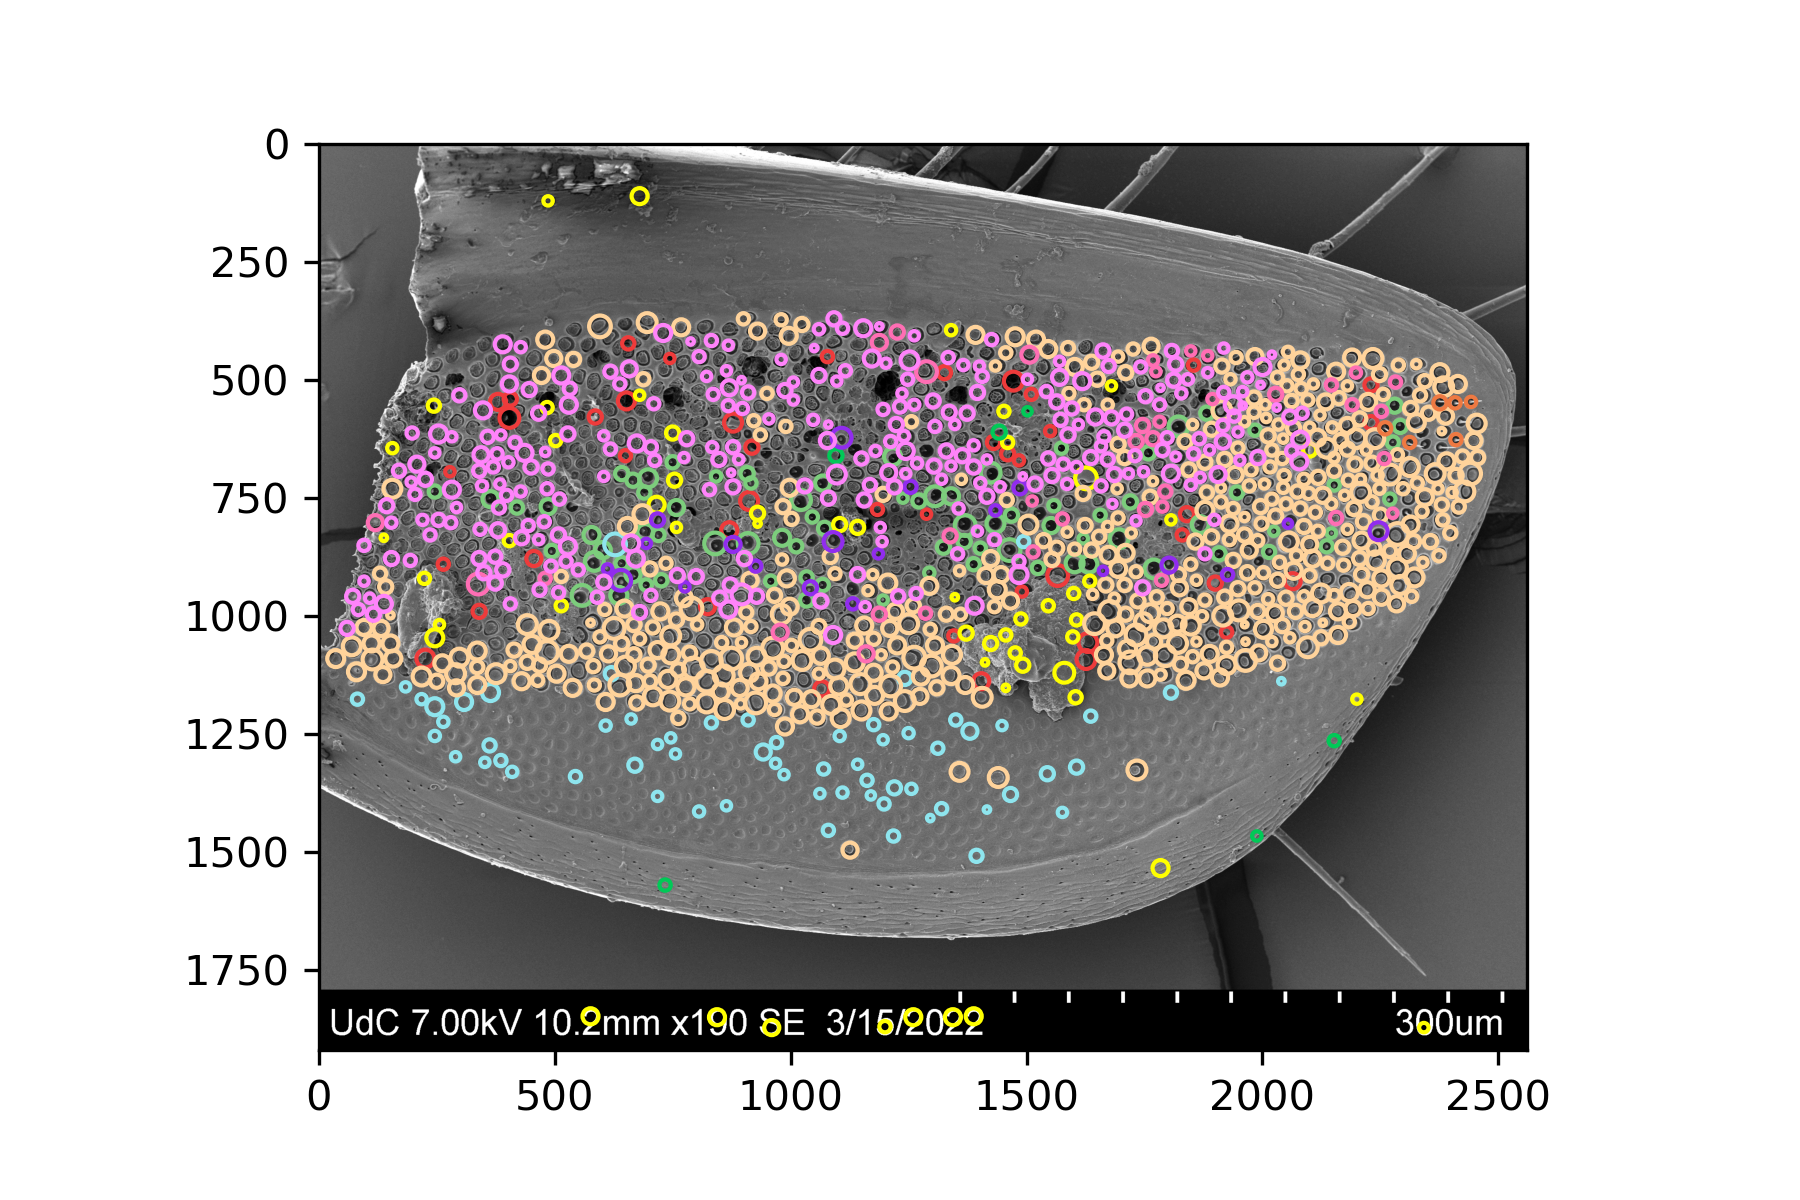
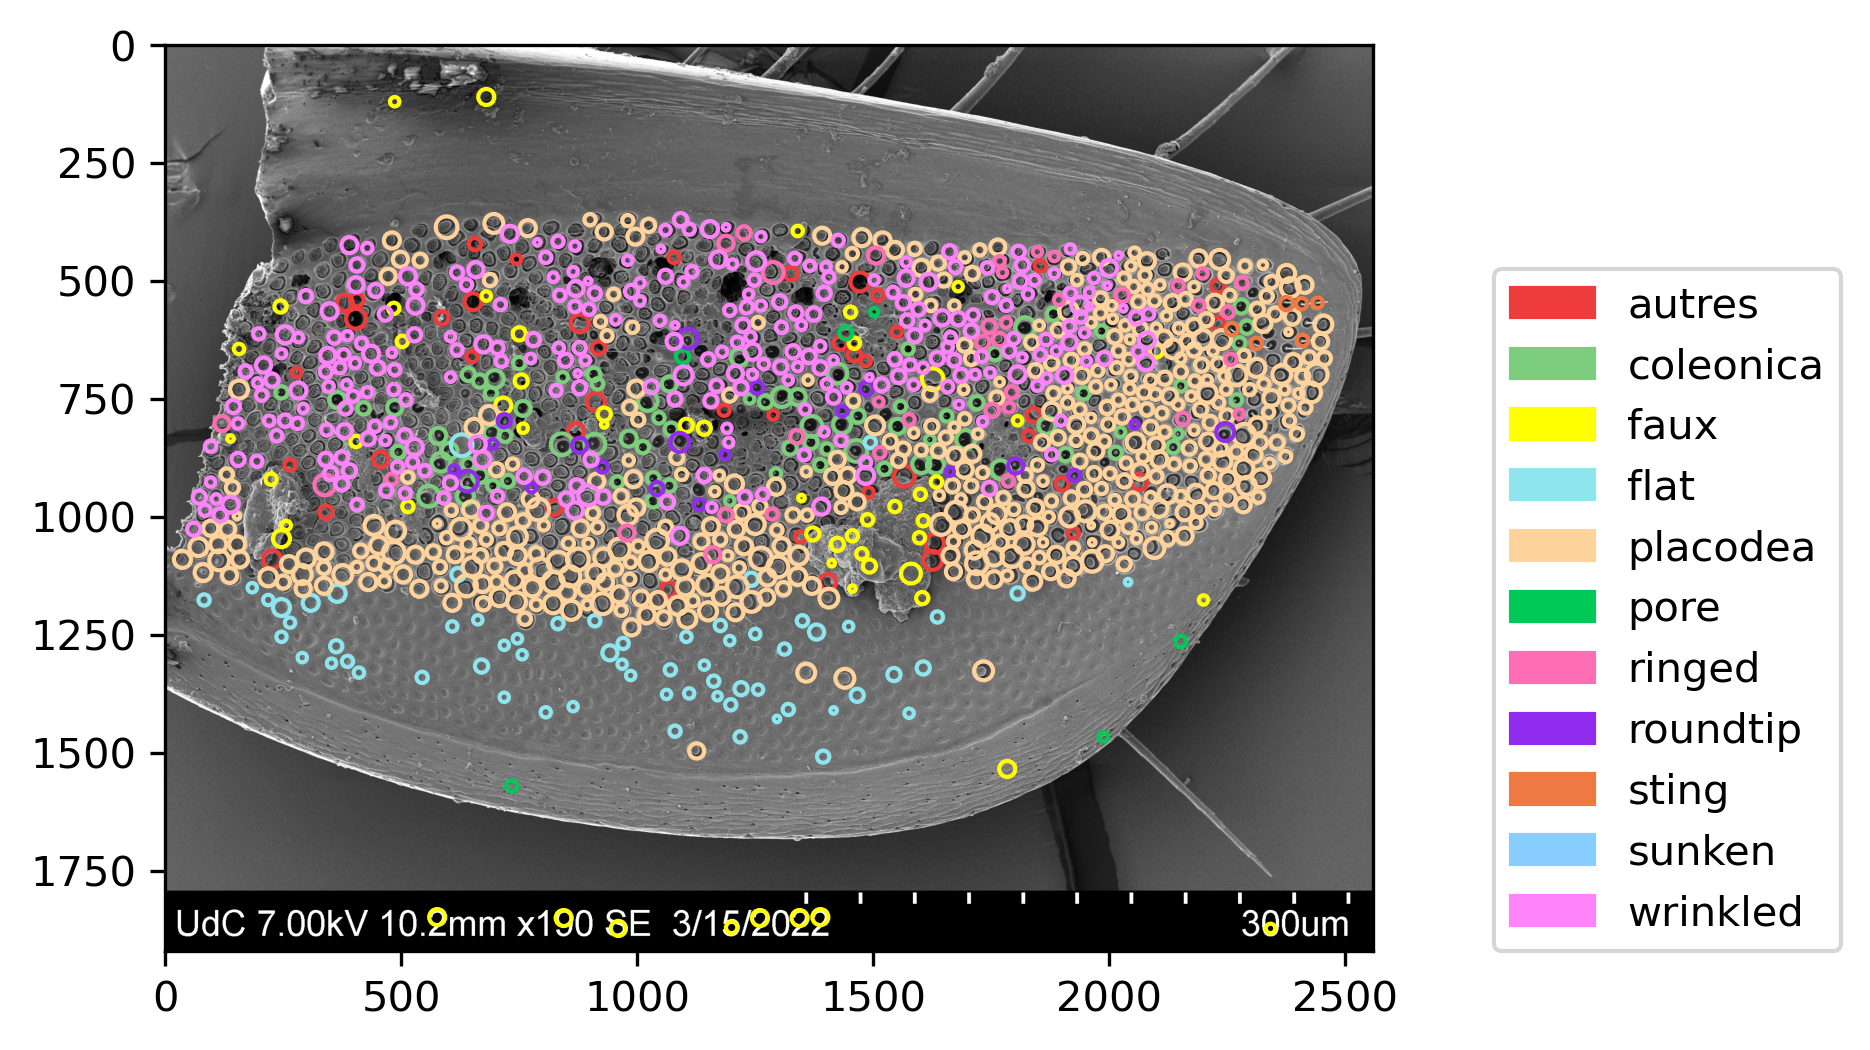
Ajout légende

diff --git a/Utils/affichage.py b/Utils/affichage.py
@@ -1,7 +1,8 @@
 # -*- coding: utf-8 -*-
 
 import matplotlib.pyplot as plt
-import matplotlib.image as mpimg 
+import matplotlib.image as mpimg
+import matplotlib.patches as mpatches
 import json
 
 json_path = 'trainingSet.json'
@@ -35,10 +36,12 @@ def show_image(image, output):
             label = "autres"
         circle = plt.Circle((x, y), size, color=labels[label], fill=False)
         ax.add_patch(circle)
+    patches = [mpatches.Patch(color=labels[label],label=label) for label in labels]
     image = "../" + image
     img = mpimg.imread(image)
     plt.imshow(img,cmap='gray',vmin=0,vmax=255)
-    plt.savefig(output)
+    lgd = plt.legend(handles=patches, loc='lower left', borderaxespad=0., bbox_to_anchor=(1.1, 0))
+    plt.savefig(output, bbox_extra_artists=(lgd,), bbox_inches='tight')
 
 name="output/output"
 i=0
